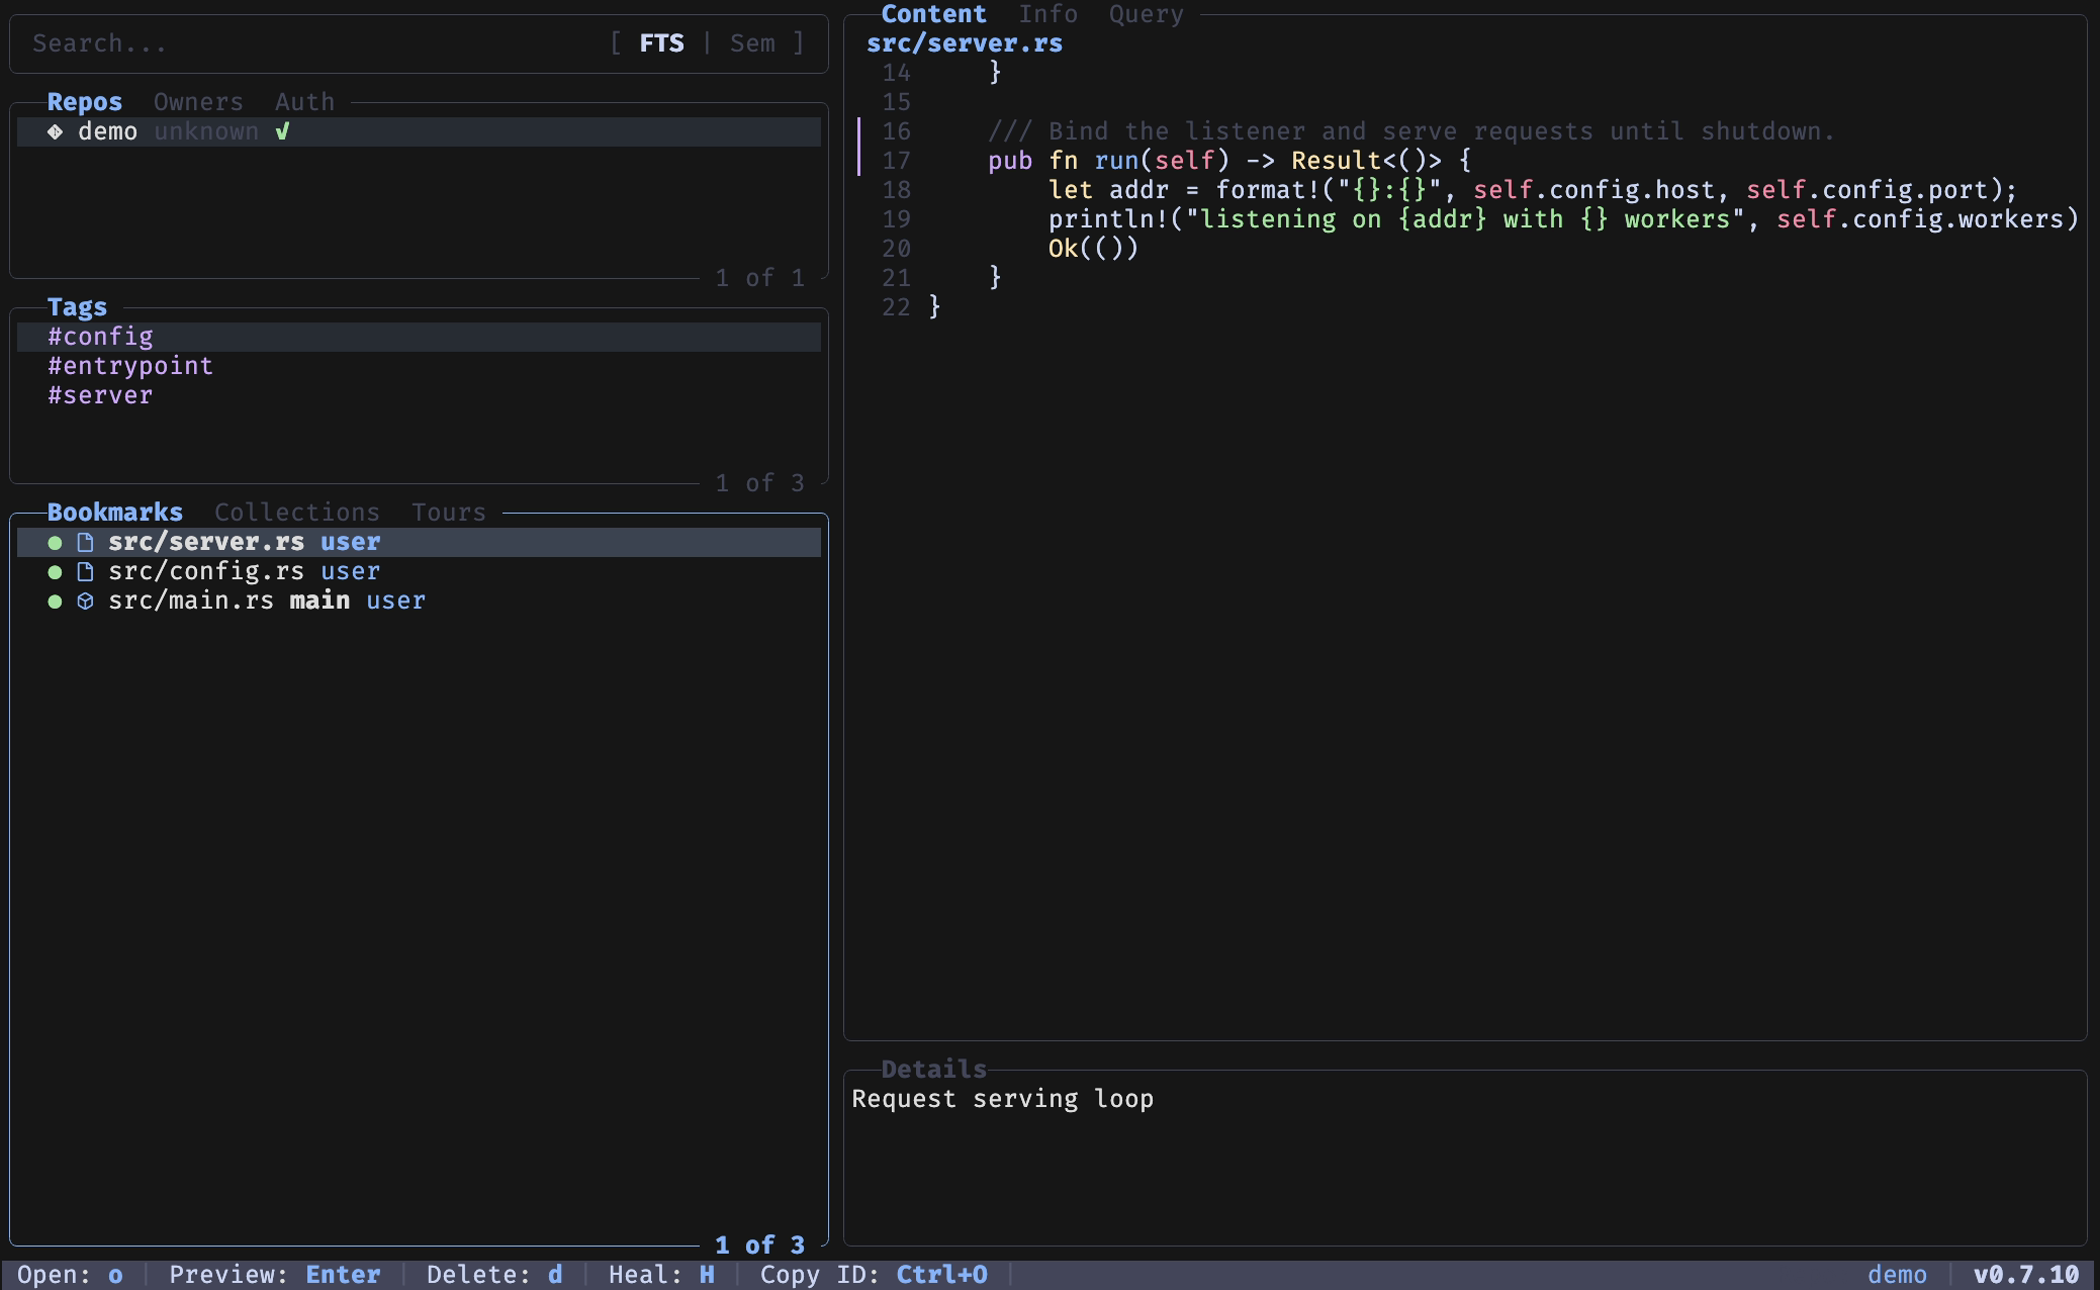
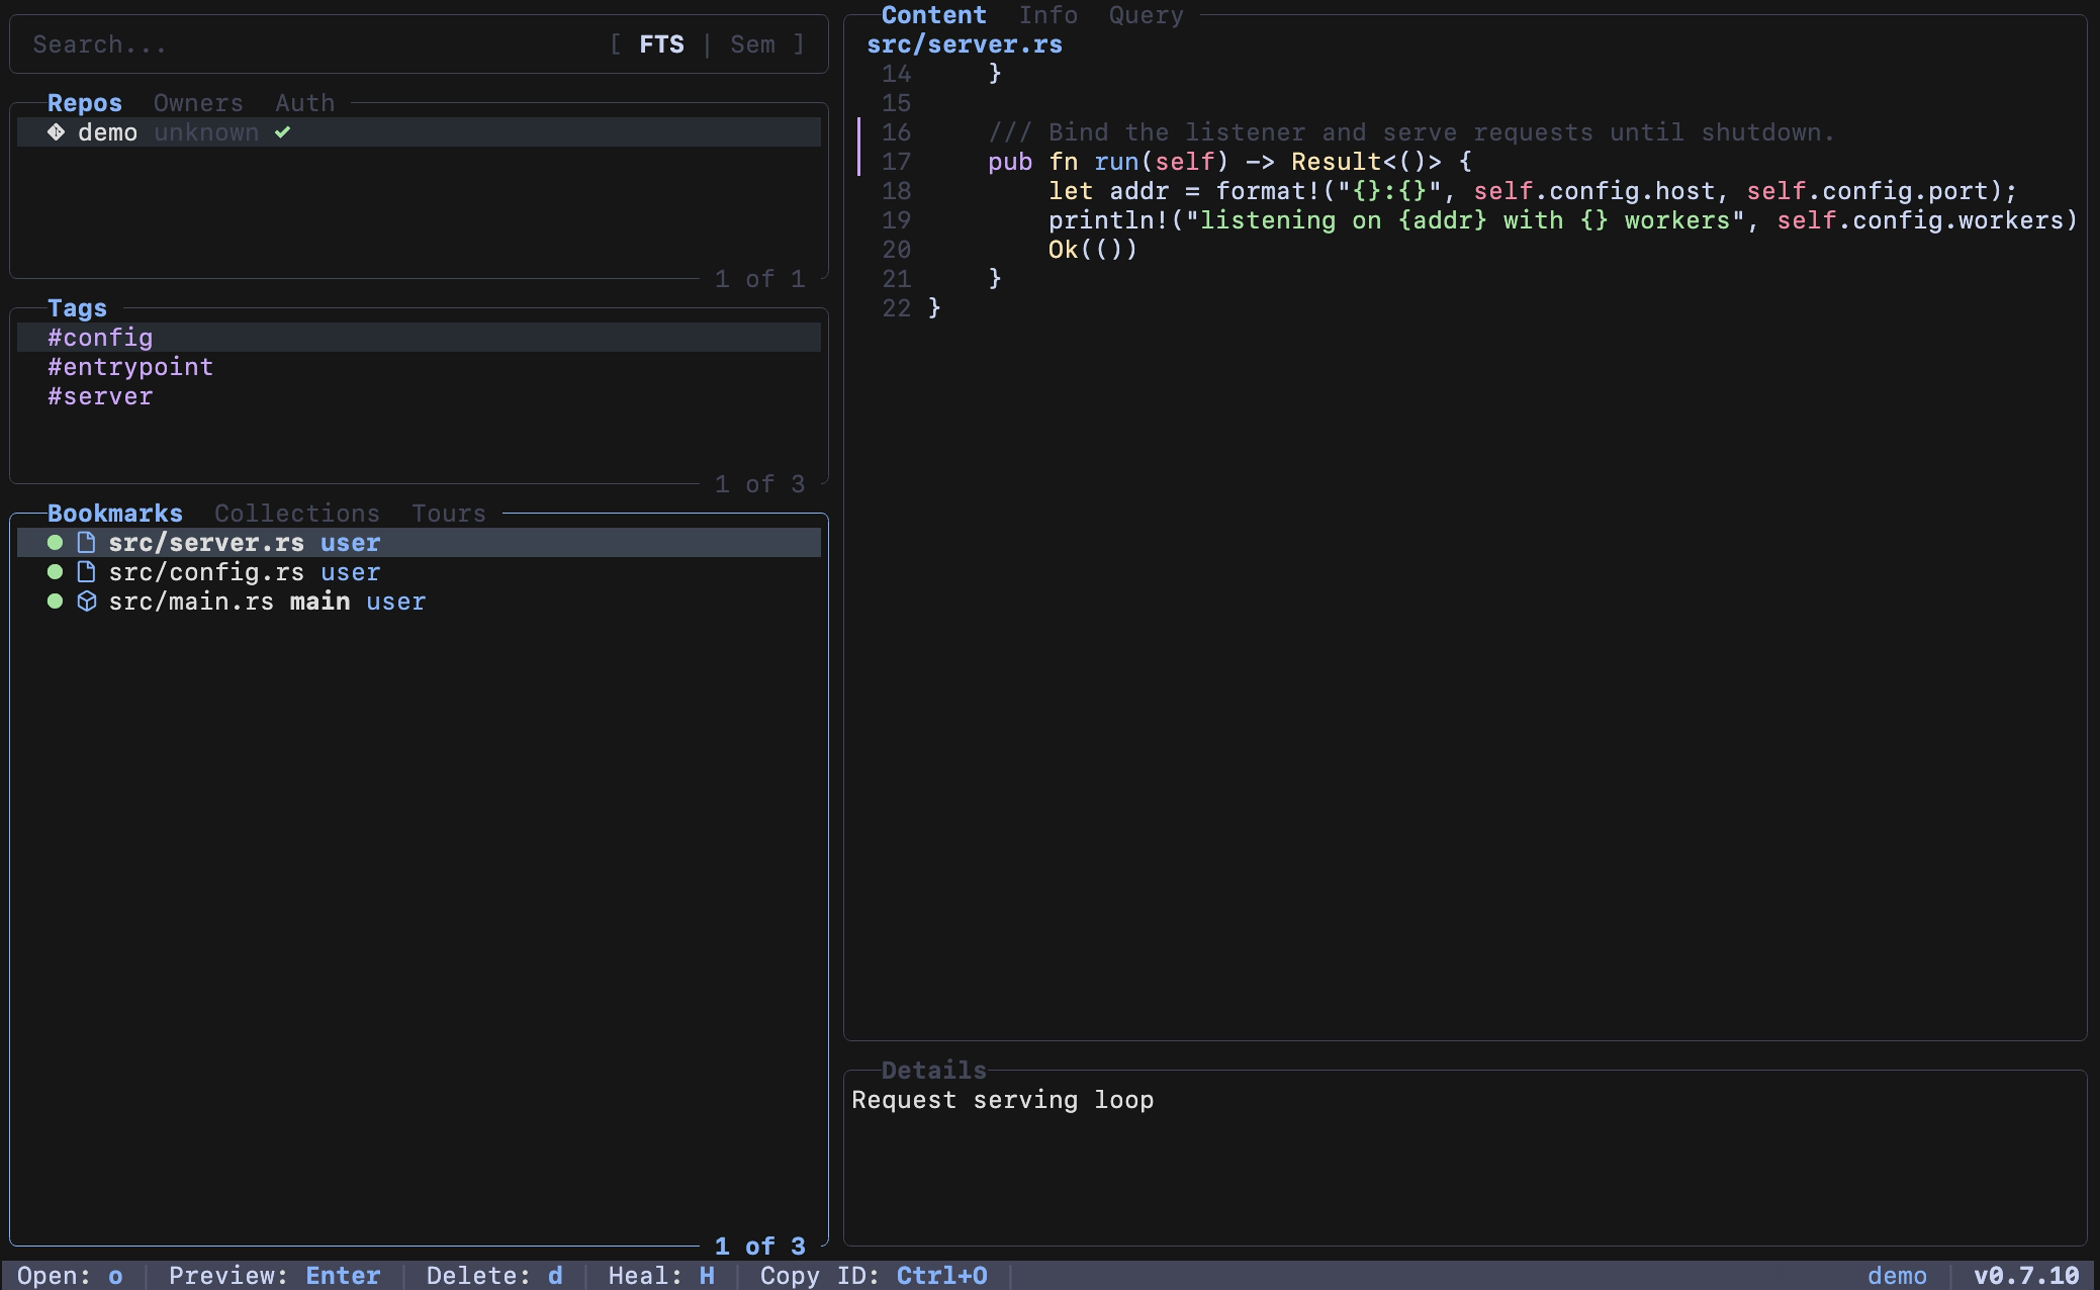
Render screenshots with SF Mono Nerd Font
Switch the gallery font from FiraCode to SF Mono Nerd Font (family
"SFMono Nerd Font") for a cleaner, native-macOS look.

SF Mono is Apple-proprietary and absent from the official Nerd Fonts releases,
but epk/SF-Mono-Nerd-Font provides a patched build with a stable versioned
archive, so CI stays reproducible:
- tapes: Set FontFamily "SFMono Nerd Font".
- CI: install from the epk archive (same source as the epk/epk Homebrew cask).
- docs: local install via `brew tap epk/epk && brew install font-sf-mono-nerd-font`.
- regenerate all five gallery images with the new font.

diff --git a/screenshots/README.md b/screenshots/README.md
@@ -37,15 +37,18 @@ which is why no vhs-theme mapping is needed.
 ## Run locally
 
 ```bash
-brew install vhs                              # macOS; see vhs README for Linux
-brew install --cask font-fira-code-nerd-font  # so the TUI icons render
+brew install vhs                            # macOS; see vhs README for Linux
+brew tap epk/epk                            # SF Mono Nerd Font tap
+brew install font-sf-mono-nerd-font         # so the TUI icons render
 ./screenshots/capture.sh
 ```
 
-The tapes render with **FiraCode Nerd Font Mono** so the TUI's Nerd Font icons
-(file/health glyphs) appear; `capture.sh` warns if the font is missing. The
-font, canvas size (`Set Width`/`Height`), and font size (`Set FontSize`) are set
-identically at the top of each tape — change them there to retune the look.
+The tapes render with **SF Mono Nerd Font** (family `SFMono Nerd Font`) so the
+TUI's Nerd Font icons (file/health glyphs) appear; `capture.sh` warns if the
+font is missing. The font, canvas size (`Set Width`/`Height`), and font size
+(`Set FontSize`) are set identically at the top of each tape — change them there
+to retune the look. (CI installs the font from the same `epk/SF-Mono-Nerd-Font`
+source via its versioned archive.)
 
 All global codemark state (registry/config) is sandboxed into a temp dir, so a
 local run never touches your real `~/.local/share/codemark`.
